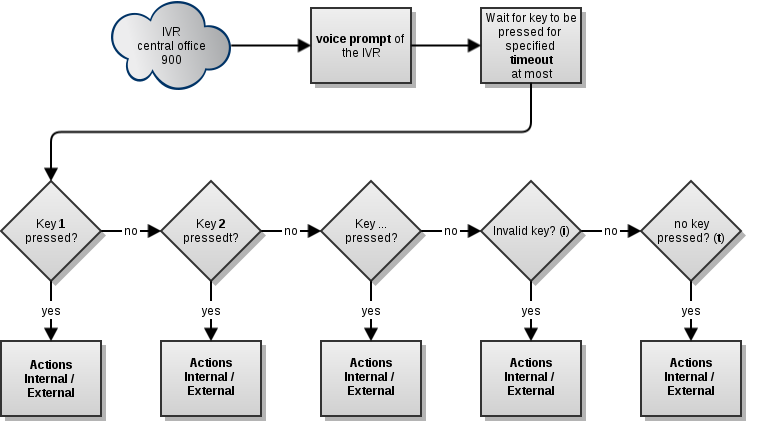
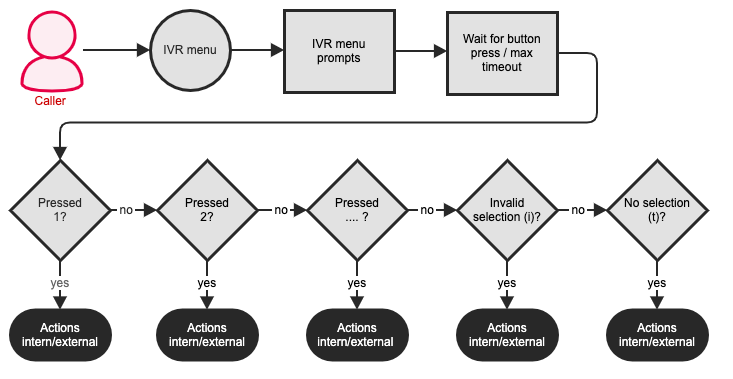
Improved docu EN and updated IVR / ACD / SBR images

Changed region(s): [[0.0, 0.0, 0.9905, 0.9868], [0.8104, 0.2902, 0.8404, 0.3193], [0.8104, 0.1451, 0.8404, 0.1741]]

diff --git a/site/content/acd/prompts-moh/_index.en.md b/site/content/acd/prompts-moh/_index.en.md
@@ -8,9 +8,13 @@ weight: 30
  
 {{< description >}}
 
+## Training Video
+
+{{< youtube aby-Ap1zyMM >}} 
+
 ## Concept
 
-During a telephone call, there are a number of points at which you situations where you could use prompts or music on hold. pascom phone systems already come with a number of prompt templates in both German and English. However, is normally better to create your own voice prompts or Music on Hold to welcome and guide your customers or inform them about your business hours. This is particularly useful for creating a professional impression and welcoming [callers to your Contact Center](/en/call-center/ "pascom Contact Center solutions") or central switchboard.
+During a telephone call, there are a number of points at which you situations where you could use prompts or music on hold. pascom phone systems already come with a number of prompt templates in both German and English. However, is normally better to create your own voice prompts or Music on Hold to welcome and guide your customers or inform them about your business hours. This is particularly useful for creating a professional impression and welcoming [callers to your Contact Center](/en/business-phone-system/ "pascom Contact Center solutions") or central switchboard.
 
 {{% notice tip %}}
 If you prefer to create your announcements in a recording studio with the help of professional voice actors, please contact our sales team.
@@ -20,7 +24,7 @@ If you prefer to create your announcements in a recording studio with the help o
 
 ### Adding Voice Prompts
 
-In order to add a new prompt to pascom, select `Advanced > Prompts` in the pascom phone system Web UI and click `Add`. Should you wish to edit an existing prompt, then select the prompt and click `Edit`.
+In order to add a new prompt to pascom, select {{< ui-button "Advanced" >}} > {{< ui-button "Prompts" >}} in the pascom phone system Web UI and click {{< ui-button "Add" >}}. Should you wish to edit an existing prompt, then select the prompt and click {{< ui-button "Edit" >}}.
 
 {{% notice note %}}
 We recommend using a prefix when naming your custom prompts in order to maintain a good overview and to be able to find them more easily later. This prefix could be something like CC-businesshours, where the CC stands for the company name "ChaosConsulting".
@@ -28,9 +32,9 @@ We recommend using a prefix when naming your custom prompts in order to maintain
 
  Firstly, the "placeholder" for the prompt will be added.
 
-Under the **upload** column, you have the option to upload your existing prompts should they be available. 
-After the successfully uploading and saving the custom prompt, the play back symbol will appear in the Play column which enables you to listen to the prompt. If necessary, you can also create a backup copy of this prompt by downloading it to your PC via the download link in the prompt file column.
+Under the **upload** column, you have the option to upload your existing prompts should they be available.   
 
+After the successfully uploading and saving the custom prompt, the play back symbol will appear in the Play column which enables you to listen to the prompt. If necessary, you can also create a backup copy of this prompt by downloading it to your PC via the download link in the prompt file column.
 
 ### Backup your prompts
 
@@ -55,13 +59,13 @@ You can also listen to and download your Voice Prompts by using the pascom comma
 
 ### Adding Additional Languages
 
-As has already been described, English and German are currently available as the installation languages. However, further languages can be added according to your needs, through using the menu tab `Advanced > Languages` and clicking on the `Add` button. Name the new language and enter the abbreviation code for the language. 
+As has already been described, English and German are currently available as the installation languages. However, further languages can be added according to your needs, through using the menu tab {{< ui-button "Advanced" >}} > {{< ui-button "Languages" >}} and clicking on the {{< ui-button "Add" >}} button. Name the new language and enter the abbreviation code for the language. 
 
 Upon saving, your new language will appear in the languages overview list.
 
 ### Managing Music on Hold
 
-The recordings used for your music on hold can be managed in the `Advanced > Music on Hold` menu of the pascom web interface.
+The recordings used for your music on hold can be managed in the {{< ui-button "Advanced" >}} > {{< ui-button "Music on Hold" >}} menu of the pascom web interface.
 {{% notice warning %}}
 Always make sure you do not violate any intellectual property rights when using a particular song for your music on hold. Either use music by artists not covered by collecting societies (such as the German musical performance and reproductions rights protection society: GEMA) or pay the royalties. As the music you will be using is made publicly available by playing it to the caller, not paying the royalties incurs the risk of legal action against you.
 {{% /notice %}}
@@ -71,7 +75,7 @@ Always make sure you do not violate any intellectual property rights when using 
 
 With pascom, you should select whole playlists and not individual songs which should be played. pascom comes with the playlist (class) called **"default"**. It includes song snippets created by Asterisk developers and can be used without having to pay any royalties to GEMA.
 
-Once you have selected a playlist, `Action > Display music` allows you to display or remove individual songs within the playlist.
+Once you have selected a playlist, {{< ui-button "Action" >}} > {{< ui-button "Display Music" >}} allows you to display or remove individual songs within the playlist.
 
 Compatible formats are **WAV** and **MP3** files.
 
@@ -97,26 +101,28 @@ Using it is quite simple. Select your microphone (see drop-down menu "Built-in M
 Don't worry if the recording is not perfect on the first try. Simply press the record button and repeat your text several times in a row. You can cut the recording later by marking the soundtrack at the desired points and pressing the DEL key.
 {{% /notice %}}
 
-Once you are satisfied with the output, select `File -> Export` and create a **WAV (Microsoft 16-bit PCM** file.
-If you want to edit your file later, you should save the project file as well by selecting `File -> Save project`.
+Once you are satisfied with the output, select {{< ui-button "File" >}} > {{< ui-button "Export" >}} and create a **WAV (Microsoft 16-bit PCM** file.
+If you want to edit your file later, you should save the project file as well by selecting {{< ui-button "File" >}} > {{< ui-button "Save Project" >}}.
 
 #### Including Background Music
 
 You can also add background music to the prompts, such as a suitable jingle during the Christmas season etc. Audacity can handle several sound tracks at once.
 
-Record your prompts as described above. Then select `File`> `Import` > `Audio`. Choose the file that contains the desired music and import it. Audacity will then create a second sound track. If you press **Play**, both the recorded voice prompt and the song will be played.
+Record your prompts as described above. Then select {{< ui-button "File" >}} > {{< ui-button "Import" >}} > {{< ui-button "Audio" >}}. Choose the file that contains the desired music and import it. Audacity will then create a second sound track. If you press **Play**, both the recorded voice prompt and the song will be played.
 
 You will be able to hear that the music is so loud it drowns out the the voice prompt. In addition, it might not be desirable for the music and the prompt to start at the same time.
 
-To start the voice prompt a bit later than the background music, position the cursor at the beginning of the voice prompt's sound track and add about three seconds of silence by clicking `Generate` > `Silence`. This way, the background music will start about three seconds before the voice prompt.
+To start the voice prompt a bit later than the background music, position the cursor at the beginning of the voice prompt's sound track and add about three seconds of silence by clicking {{< ui-button "Generate" >}} > {{< ui-button "Silence" >}}. This way, the background music will start about three seconds before the voice prompt.
 
-To reduce the loudness of the background music, use the envelope tool. When the envelope tool is activated while you position your cursor in the sound track and move your mouse up and down, you will notice you an change the volume of the sound track. Repeating this process in several more parts along the sound track will cause Audacity to create an envelope from all the selected positions, indicated by small white dots.
+To reduce the loudness of the background music, use the envelope tool. When the envelope tool is activated while you position your cursor in the sound track and move your mouse up and down, you will notice you an change the volume of the sound track. Repeating this process in several more parts along the sound track will cause Audacity to create an envelope from all the selected positions, indicated by small white dots.  
+
 ![Creating prompts with Audacity](audacity_envelope_editing.png?width=35%)
 
 The result should look similar to this:
+
 ![Prompts with Audactiy](audacity_music.de.png?width=90%)
 
-If you like the result, select `File` > `Export`and create a **WAV (Microsoft) 16-bit PCM** file. The sound tracks will be merged automatically.
+If you like the result, select {{< ui-button "File" >}} > {{< ui-button "Export" >}} and create a **WAV (Microsoft) 16-bit PCM** file. The sound tracks will be merged automatically.
 
-If you want to edit your file later, you should save the project file as well by selecting `File` > `Save project.
+If you want to edit your file later, you should save the project file as well by selecting {{< ui-button "File" >}} > {{< ui-button "Save Project" >}}.
 

diff --git a/site/content/acd/skill-based-routing/_index.en.md b/site/content/acd/skill-based-routing/_index.en.md
@@ -28,11 +28,14 @@ Functions:
 ### Overview
 
 The caller selects their preferred language using an IVR menu and will then be forwarded onto the support team. With skill based routing, only phones belonging to support agents with the associated language skill will ring.
+
 ![Skills Based Routing](example-1.en.png?width=80% "pascom Skills Based Routing example 1")
 
 ### Configuration
 
-#### 1. The first step is to define the required skills, which in the example above is languages. To do this, select `ACD (Automatic Call Distribution) > Call Labels > Add` -> Skill.
+#### 1. Add Skills 
+
+The first step is to define the required skills, which in the example above is languages. To do this, select {{< ui-button "ACD - Automatic Call Distribution" >}} > {{< ui-button "Call Labels" >}} > {{< ui-button "Add" >}} -> Skill.
 
 |Parameter|Description|
 |---|---|
@@ -44,13 +47,13 @@ The caller selects their preferred language using an IVR menu and will then be f
 
 Under the `User Skills` tab you can assign that newly added lable to specific users.
 
-Skills can also be assigned to users by following: `Users > User List` > Select required user(s) > `Edit > Skills Tab`.
+Skills can also be assigned to users by following: {{< ui-button "Users" >}} > {{< ui-button "User List" >}} > Select required user(s) > {{< ui-button "Edit" >}} > Skills Tab.
 
 If you assign a user with a particular skill, you must also assign a "skill level".
 
 *In our example, all agents offer support for german speaking callers. But only 1 agent has the skill "German" assigned. The other two agents have other skills assigned. As such, we recommend providing Agent 1 with a higher level for the skill "German", ensuring german speaking calls are always routed to him as the first port of call.*
 
-In order to ensure that skills are taken in account when distributing calls within a team, the team must be configured to use the script "Skill Based Routing": `Users > Teams` > `selecte Team / Queue` > `Edit` and under the `Basic Data` tab select **skill based routing** from the drop down menu under "Routing Script".
+In order to ensure that skills are taken in account when distributing calls within a team, the team must be configured to use the script "Skill Based Routing": {{< ui-button "Users" >}} > {{< ui-button "Teams" >}} > select Team / Queue > click {{< ui-button "Edit" >}} and under the {{< ui-button "Basic Data" >}} tab select **skill based routing** from the drop down menu under "Routing Script".
 
 {{% notice note%}}
 Using skills has numerous benefits such as only needing one queue, even though your callers require different skills for example different languages. Through using skill based routing only the phones of those agents that fulfill the required skills will ring, ensuring improved customer care etc.
@@ -59,18 +62,24 @@ Using skills has numerous benefits such as only needing one queue, even though y
 
 #### 3. IVR Options Menus
 
-In order set the caller's language, we need to set up an [IVR Menu]({{< ref "/acd/ivr">}}): `ACD > IVR > Add`
+In order set the caller's language, we need to set up an [IVR Menu]({{< ref "/acd/ivr">}}): {{< ui-button "ACD" >}} > {{< ui-button "IVR" >}} > {{< ui-button "Add" >}}
 
-Für die Sprachauswahl erstellen wir ein [IVR-Menü]({{< ref "/acd/ivr">}}): `Anrufverteilung` > `IVR` > `Hinzufügen`.
 Once the ***IVR*** menu has been added, you will now need to add the required option entries. To do this select the IVR you just created and then click on the ***Entries*** button.
 
-Now add three further entries: Number **1** for *deutsch*, number **2** for *englich*, number **3** for *french*.<br>**i** for *invalid* (invalid entry) and **t** for *timeout* have already been added and need only be edited.
+Now add three further entries: 
 
-Now the entries need to be edited and configured with actions. As an example, we are editing the *english* entry:
+number **1** for *german*  
+number **2** for *english*  
+number **3** for *french*.  
+
+**i** for *invalid* (invalid entry) and **t** for *timeout* have already been added and need only be edited.
+
+Now the entries need to be edited and configured with actions. As an example, we are editing the *english* entry:  
 
 ![configure pascom IVR entries](ivr-entry.en.png?width=80% "how to configure pascom IVR options")
 
-Firstly we need to set the label: `Add` > `Set Label`:
+Firstly we need to set the label: {{< ui-button "Add" >}} > {{< ui-button "Set Label" >}}:  
+
 As the skill name, use *english*. The expression indiciates the minimum skill level that an agent must have before they have calls routed to them.
 
 You can also set the channel language here, meaning your callers will only hear prompts / announcements in the language they have selected.
@@ -87,34 +96,36 @@ If so configured, labels can then be displayed to queue agents via the pascom cl
 
 ### Overview
 
-This example scenario expands on the example above. After the language IVR, the customer number will also be requested which will be used to distinguish between VIP and non VIP customers. VIP customers will be connected directly to the support team, while calls from non VIP customers must be checked to see whether they are calling inside of normal business hours before being connected to the support team..
+This example scenario expands on the example above. After the language IVR, the customer number will also be requested which will be used to distinguish between VIP and non VIP customers. VIP customers will be connected directly to the support team, while calls from non VIP customers must be checked to see whether they are calling inside of normal business hours before being connected to the support team.  
+
  ![Skill Based Routing](example-2.en.png)
 
 #### 1. Configuration
 
-1. After selecting their language, a caller must be prompted to enter their customer number. This is achieved by using a **Generic Label** which can be configured under `ACD > Call Labels > Add > Generic Label`.
+1. After selecting their language, a caller must be prompted to enter their customer number. This is achieved by using a **Generic Label** which can be configured under {{< ui-button "ACD" >}} > {{< ui-button "Call Labels" >}} > {{< ui-button "ACD" >}} > {{< ui-button "Generic Label" >}}.
 
 ![Generic Label](label-generic.en.png?width=80% "pascom Skills Based Routing Call Labels")
 
-The generic label has a **Channel Variable** (in this case MDC_LABEL-9) which we need to note for further configurations. The variable name can be found by selecting the label in the overview and clicking on Edit:
+The generic label has a **Channel Variable** (in this case MDC_LABEL-9) which we need to note for further configurations. The variable name can be found by selecting the label in the overview and clicking on {{< ui-button "Edit" >}}:
 
 ![Variable name](generic-label.en.png?width=80% "pascom Generic Skill Label")
 
 #### 2. Action Conditions: VIP Customers
 
-To differentiate between VIP and non-VIP customers, we need to use a **Generic Label with Action Conditions**: `ACD > Call Labels > Add > Generic Label` and set the ***Create Action Condition*** to **yes**
+To differentiate between VIP and non-VIP customers, we need to use a **Generic Label with Action Conditions**: {{< ui-button "ACD" >}} > {{< ui-button "Call Labels" >}} > {{< ui-button "ACD" >}} > {{< ui-button "Generic Label" >}} and set the ***Create Action Condition*** to **yes**.  
+
 ![Action conditions](label-condition.en.png?width=80% "pascom SBR call label editing")
 
 #### 3. Request Customer Number
 
-The IVR entries will no longer directly route to the Support queue. Firstly, we need to request the customer number. This function is performed by using a Call Router:
-![pascom IVR with Skill based Routing](ivr-entry.de.png?width=80% "pascom Skills Based Routing IVR")
+The IVR entries will no longer directly route to the Support queue. Firstly, we need to request the customer number. This function is performed by using a Call Router:  
+
+![pascom IVR with Skill based Routing](ivr-entry.en.png?width=80% "pascom Skills Based Routing IVR")
 
 #### 4. Checking Conditions with the Call Router
 
 The **Call Router** is used in order to check conditions and trigger the corresponding actions.
 The first step is to use an **Inline Script** that requests the customer number.
-
 
 {{% notice info%}}
 An Inline Script allows a single line Asterisk script to be simultaneously integrated into actions.

diff --git a/site/content/acd/ivr/_index.en.md b/site/content/acd/ivr/_index.en.md
@@ -18,7 +18,8 @@ The IVR could then offer the following options to the user:
 
 ### Process flow of an IVR
 
-When a IVR menu is entered, the following procedures are executed:
+When a IVR menu is entered, the following procedures are executed:  
+
 ![IVR Call Flow](ivr-call-flow.en.png "pascom phone system IVR call flow")
 
 As the first step of the IVR flow, an announcement you choose is played. To learn how to record your own announcements, please see Custom Prompts and Music On Hold. Your announcement could be structured similar to this example:
@@ -49,8 +50,6 @@ Preferably, you should not create nested IVRs that are deeper than two levels. H
 
 In the pascom web interface, select {{< ui-button "ACD" >}} > {{< ui-button "IVR" >}}. To add a new IVR, press {{< ui-button "Add" >}}. To modify an existing IVR, select it from the list and press {{< ui-button "Edit" >}}.
 
-![Screenshot - add IVR](/ivr_add.png?width=100% "add IVR")
-
 |Parameter|Explanation|
 |---------|---------|
 |Title|The title of the IVR menu.
@@ -64,7 +63,7 @@ In the pascom web interface, select {{< ui-button "ACD" >}} > {{< ui-button "IVR
 In the pascom web interface, select {{< ui-button "ACD" >}} > {{< ui-button "IVR" >}}. Select the IVR you wish to config / edit options for and press the {{< ui-button "Entries" >}} button. Here, you can define the available options (and configure the corresponding key) and how they should be handled once selected by the caller:
 
 Press the {{< ui-button "Add" >}} button to create a new entry.
-![Screenshot - create IVR entries](/ivr_entries.png?width=100% "create IVR entries")
+
 
 |Parameter|Explanation|
 |---------|---------|
